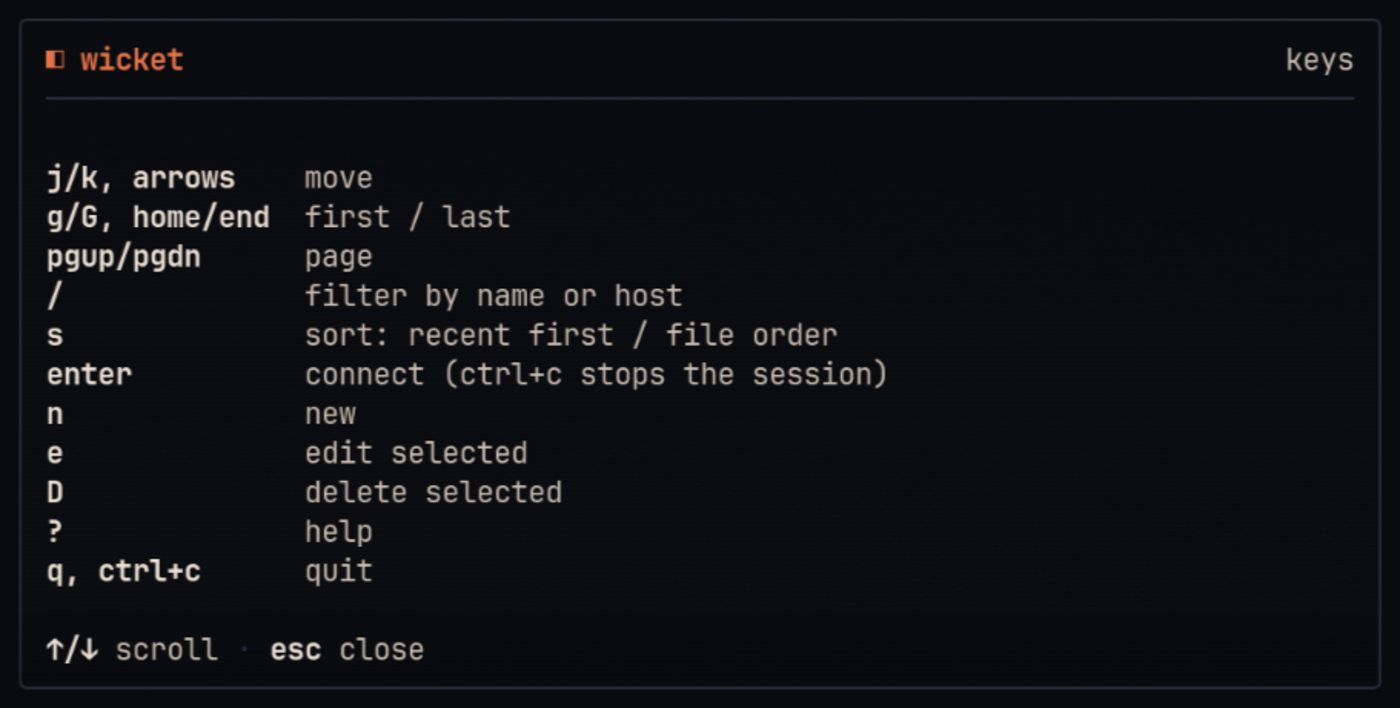
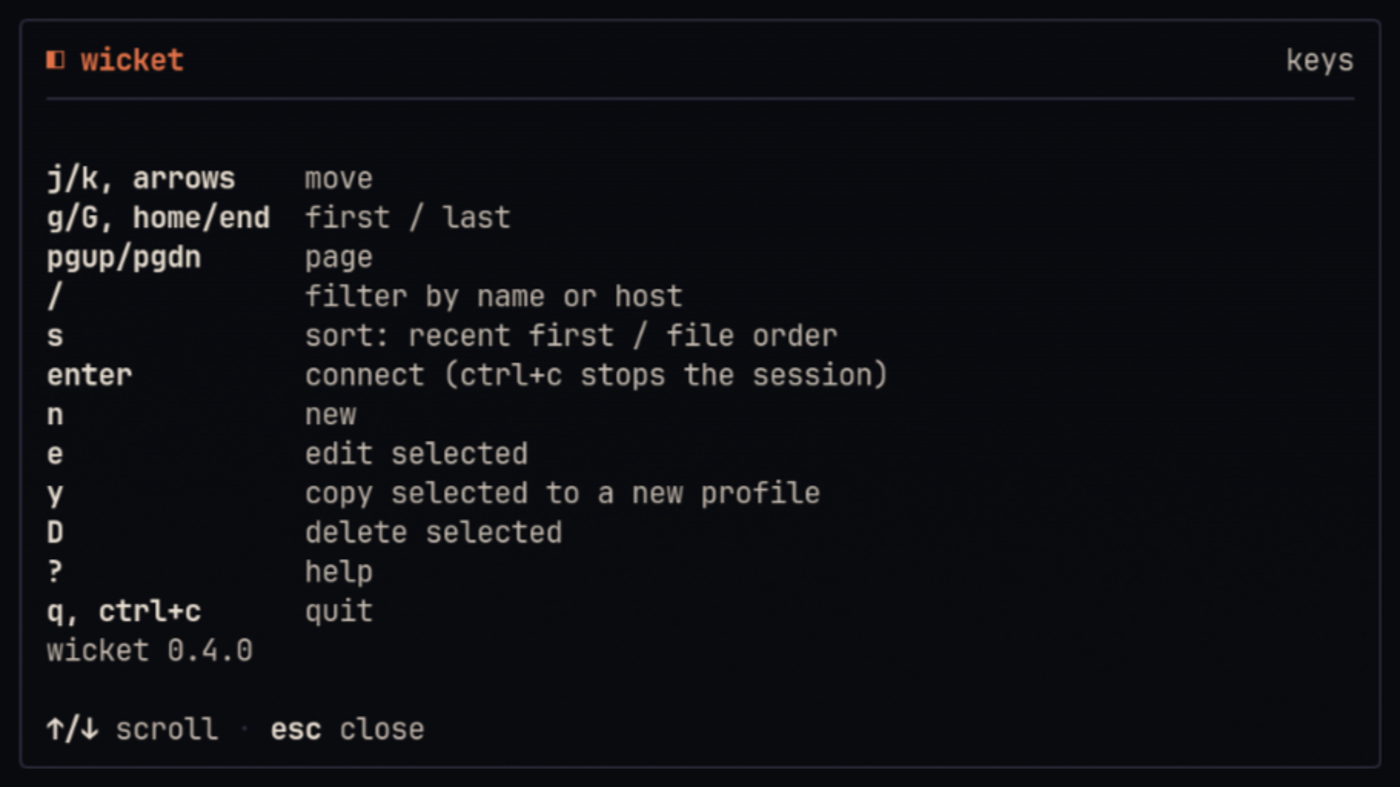
docs: add the release notes and post-release checks, recapture screenshots
CONTRIBUTING's Releasing section now says how to write the release notes
and lists the checks to run once the workflow has published: SHA256SUMS,
the attestation of each tarball, and an end-to-end install into a scratch
directory. It also says the update-aur job skips itself until the AUR
package is published.

The README screenshots now show v0.4.0: the edit form's sharing section,
all-monitors toggle and radio options, and the help panel's version line.

Closes #127

diff --git a/CONTRIBUTING.md b/CONTRIBUTING.md
@@ -121,6 +121,49 @@ step. Never add a new release to `UNATTESTED` in `install.sh`.
 git tag -a v0.1.0 -m v0.1.0 && git push origin v0.1.0
 ```
 
+### Release notes
+
+There is no CHANGELOG. The workflow publishes the release with GitHub's
+generated list of merged PRs. Once it is up, write a short summary of what
+changed for users since the last tag, put it above that list, and replace the
+notes:
+
+```
+gh release view vX.Y.Z --json body --jq .body > notes.md   # add the summary at the top
+gh release edit vX.Y.Z --notes-file notes.md
+```
+
+### After the release
+
+When the workflow has finished, check what it published before announcing it:
+
+1. Download the assets and check them against `SHA256SUMS`:
+
+   ```
+   gh release download vX.Y.Z --dir rel && (cd rel && sha256sum -c SHA256SUMS)
+   ```
+
+2. Verify the attestation of each tarball:
+
+   ```
+   for t in rel/*.tar.gz; do
+     GH_HOST=github.com gh attestation verify "$t" --repo gaius-codius/wicket \
+       --cert-identity https://github.com/gaius-codius/wicket/.github/workflows/release.yml@refs/tags/vX.Y.Z
+   done
+   ```
+
+   `install.sh` runs the same check, so a tarball that fails it makes every
+   install with gh 2.68 or later fail closed.
+
+3. Install the release end to end into a scratch directory:
+
+   ```
+   WICKET_BINDIR="$(mktemp -d)" sh install.sh --version vX.Y.Z
+   ```
+
+   With `gh` on `PATH` it should print `verified provenance`, then
+   `installed wicket X.Y.Z`.
+
 ### AUR
 
 `packaging/aur/wicket-bin/PKGBUILD` is the template for the `wicket-bin` AUR
@@ -128,8 +171,9 @@ package. When the `AUR_SSH_PRIVATE_KEY` secret is set, the `release` workflow
 sets `pkgver`, `pkgrel=1` and the checksums from the tag and `SHA256SUMS`,
 test-builds the package, and pushes `PKGBUILD` and a fresh `.SRCINFO` to the
 AUR, in an `update-aur` job after the release. Without the secret the job
-does nothing, and it skips any tag that is not a plain `vX.Y.Z`. If the push
-fails, re-run that job alone from the Actions page.
+skips itself, as it does until the AUR package is first published (#56).
+It also skips any tag that is not a plain `vX.Y.Z`. If the push fails,
+re-run that job alone from the Actions page.
 
 First-time setup:
 
